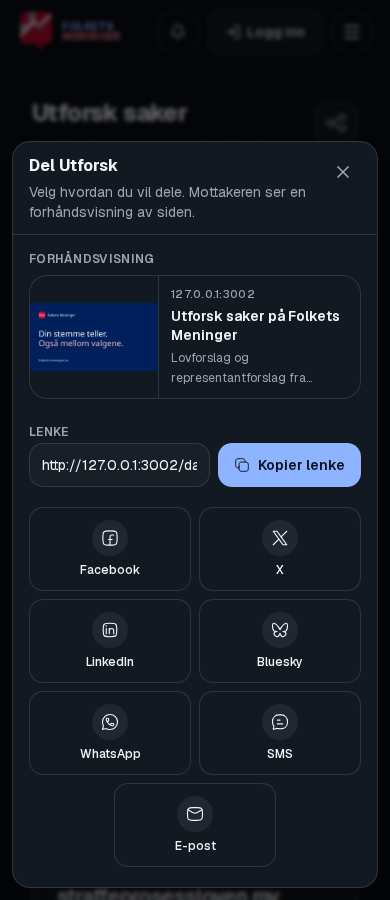
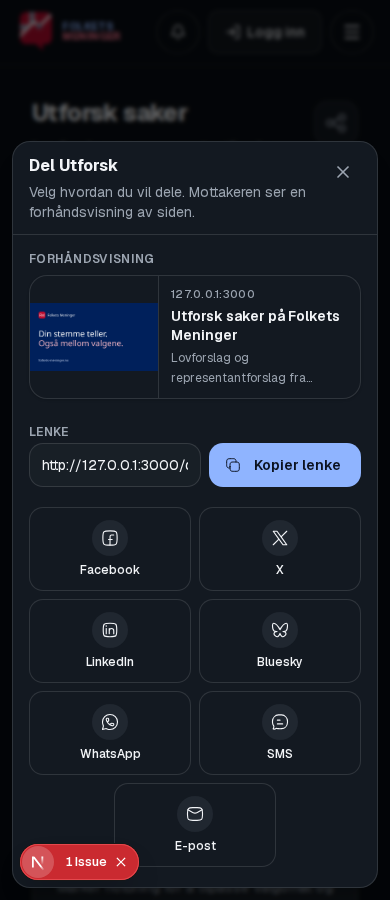
Oppfølging #255: stabil kopier-knapp, sentrert delingsgrid, kommentarer
- Kopier-knapp beholder bredde via overlappende etiketter i grid
- Siste rad (3 valg) sentreres på sm+ uten tom celle i 4-kolonne-grid
- VURDER_FOCUS_RING på trykkflater; rAF z-index beholdt med oppdatert kommentar
- Oppdaterte docs/share-samples med Playwright

Changed region(s): [[0.0308, 0.9333, 0.7385, 1.0], [0.4308, 0.4667, 0.8923, 0.56]]

diff --git a/components/share/share-dialog.tsx b/components/share/share-dialog.tsx
@@ -29,11 +29,9 @@ import {
   type ShareChannel,
   type ShareTarget,
 } from '@/lib/share/targets';
+import { VURDER_FOCUS_RING } from '@/lib/admin/vurder-interaction-classes';
 import { cn } from '@/lib/utils';
 import { canUseNativeShare } from '@/lib/share/native-share';
-
-const FOCUS_RING =
-  'focus-visible:outline-none focus-visible:ring-2 focus-visible:ring-ring focus-visible:ring-offset-2';
 
 const TARGET_ICONS: Record<ShareTarget, IconSvgElement> = {
   facebook: Facebook01Icon,
@@ -67,7 +65,7 @@ export type ShareDialogProps = {
   /** Extra actions under the share options (e.g. embed for polls). */
   extraActions?: ReactNode;
   showPreview?: boolean;
-  /** Stack above reel expanded UI (`z-[400]`). */
+  /** Raise overlay above reel expanded UI (see SHARE_DIALOG_OVERLAY_Z_INDEX). */
   overlayTop?: boolean;
 };
 
@@ -91,6 +89,7 @@ export function ShareDialog({
   const [error, setError] = useState('');
   const dialogInstanceRef = useRef(0);
 
+  // Dialog sets overlay z-index on open; re-apply after paint so share sits above reel expanded UI.
   useEffect(() => {
     if (!open || !overlayTop) return;
     dialogInstanceRef.current += 1;
@@ -194,7 +193,7 @@ export function ShareDialog({
               onClick={() => void copyLink()}
               className={cn(
                 'inline-flex min-h-11 shrink-0 items-center gap-2 rounded-xl px-4 text-sm font-semibold transition-colors',
-                FOCUS_RING,
+                VURDER_FOCUS_RING,
                 copied
                   ? 'bg-emerald-700 text-white dark:bg-emerald-700 dark:text-white'
                   : 'bg-brand text-brand-foreground hover:bg-brand/90',
@@ -207,7 +206,7 @@ export function ShareDialog({
                   animate={{ scale: 1, opacity: 1, rotate: 0 }}
                   exit={reducedMotion ? undefined : { scale: 0.6, opacity: 0 }}
                   transition={{ type: 'spring', stiffness: 520, damping: 26 }}
-                  className="inline-flex"
+                  className="inline-flex shrink-0"
                 >
                   <HugeiconsIcon
                     icon={copied ? Tick02Icon : Copy01Icon}
@@ -216,7 +215,10 @@ export function ShareDialog({
                   />
                 </motion.span>
               </AnimatePresence>
-              {copied ? 'Lenke kopiert' : 'Kopier lenke'}
+              <span className="grid [&>span]:col-start-1 [&>span]:row-start-1">
+                <span className={cn(!copied && 'invisible')}>Lenke kopiert</span>
+                <span className={cn(copied && 'invisible')}>Kopier lenke</span>
+              </span>
             </button>
           </div>
           <p className="sr-only" role="status" aria-live="polite">
@@ -230,7 +232,7 @@ export function ShareDialog({
             onClick={() => void shareNative()}
             className={cn(
               'flex min-h-11 w-full items-center justify-center gap-2 rounded-xl border border-border bg-card px-4 text-sm font-semibold text-foreground transition-colors hover:bg-muted',
-              FOCUS_RING,
+              VURDER_FOCUS_RING,
             )}
           >
             <HugeiconsIcon icon={SmartPhone01Icon} className="h-4 w-4" aria-hidden />
@@ -239,7 +241,7 @@ export function ShareDialog({
         ) : null}
 
         <ul
-          className="grid grid-cols-2 gap-2 sm:grid-cols-4 sm:justify-items-stretch"
+          className="grid grid-cols-2 gap-2 sm:grid-cols-4 sm:justify-items-stretch sm:[&>li:nth-child(5):nth-last-child(3)]:col-start-2"
           aria-label="Del til"
         >
           {SHARE_TARGETS.map((target, index) => {
@@ -266,7 +268,7 @@ export function ShareDialog({
                   rel={newTab ? 'noreferrer noopener' : undefined}
                   className={cn(
                     'group flex min-h-11 w-full flex-col items-center gap-1.5 rounded-xl border border-border bg-card px-2 py-3 text-xs font-medium text-foreground transition-colors hover:bg-muted',
-                    FOCUS_RING,
+                    VURDER_FOCUS_RING,
                     isOrphanMobile && 'max-w-[calc(50%-0.25rem)] sm:max-w-none',
                   )}
                 >

diff --git a/lib/share/share-overlay-z-index.ts b/lib/share/share-overlay-z-index.ts
@@ -1,2 +1,2 @@
-/** Above reel expanded shell (`z-[400]`) and backdrop (`z-[225]`). Applied in share-dialog only. */
+/** Raised above reel expanded UI; applied in share-dialog after Dialog sets its default overlay z-index. */
 export const SHARE_DIALOG_OVERLAY_Z_INDEX = 450;
